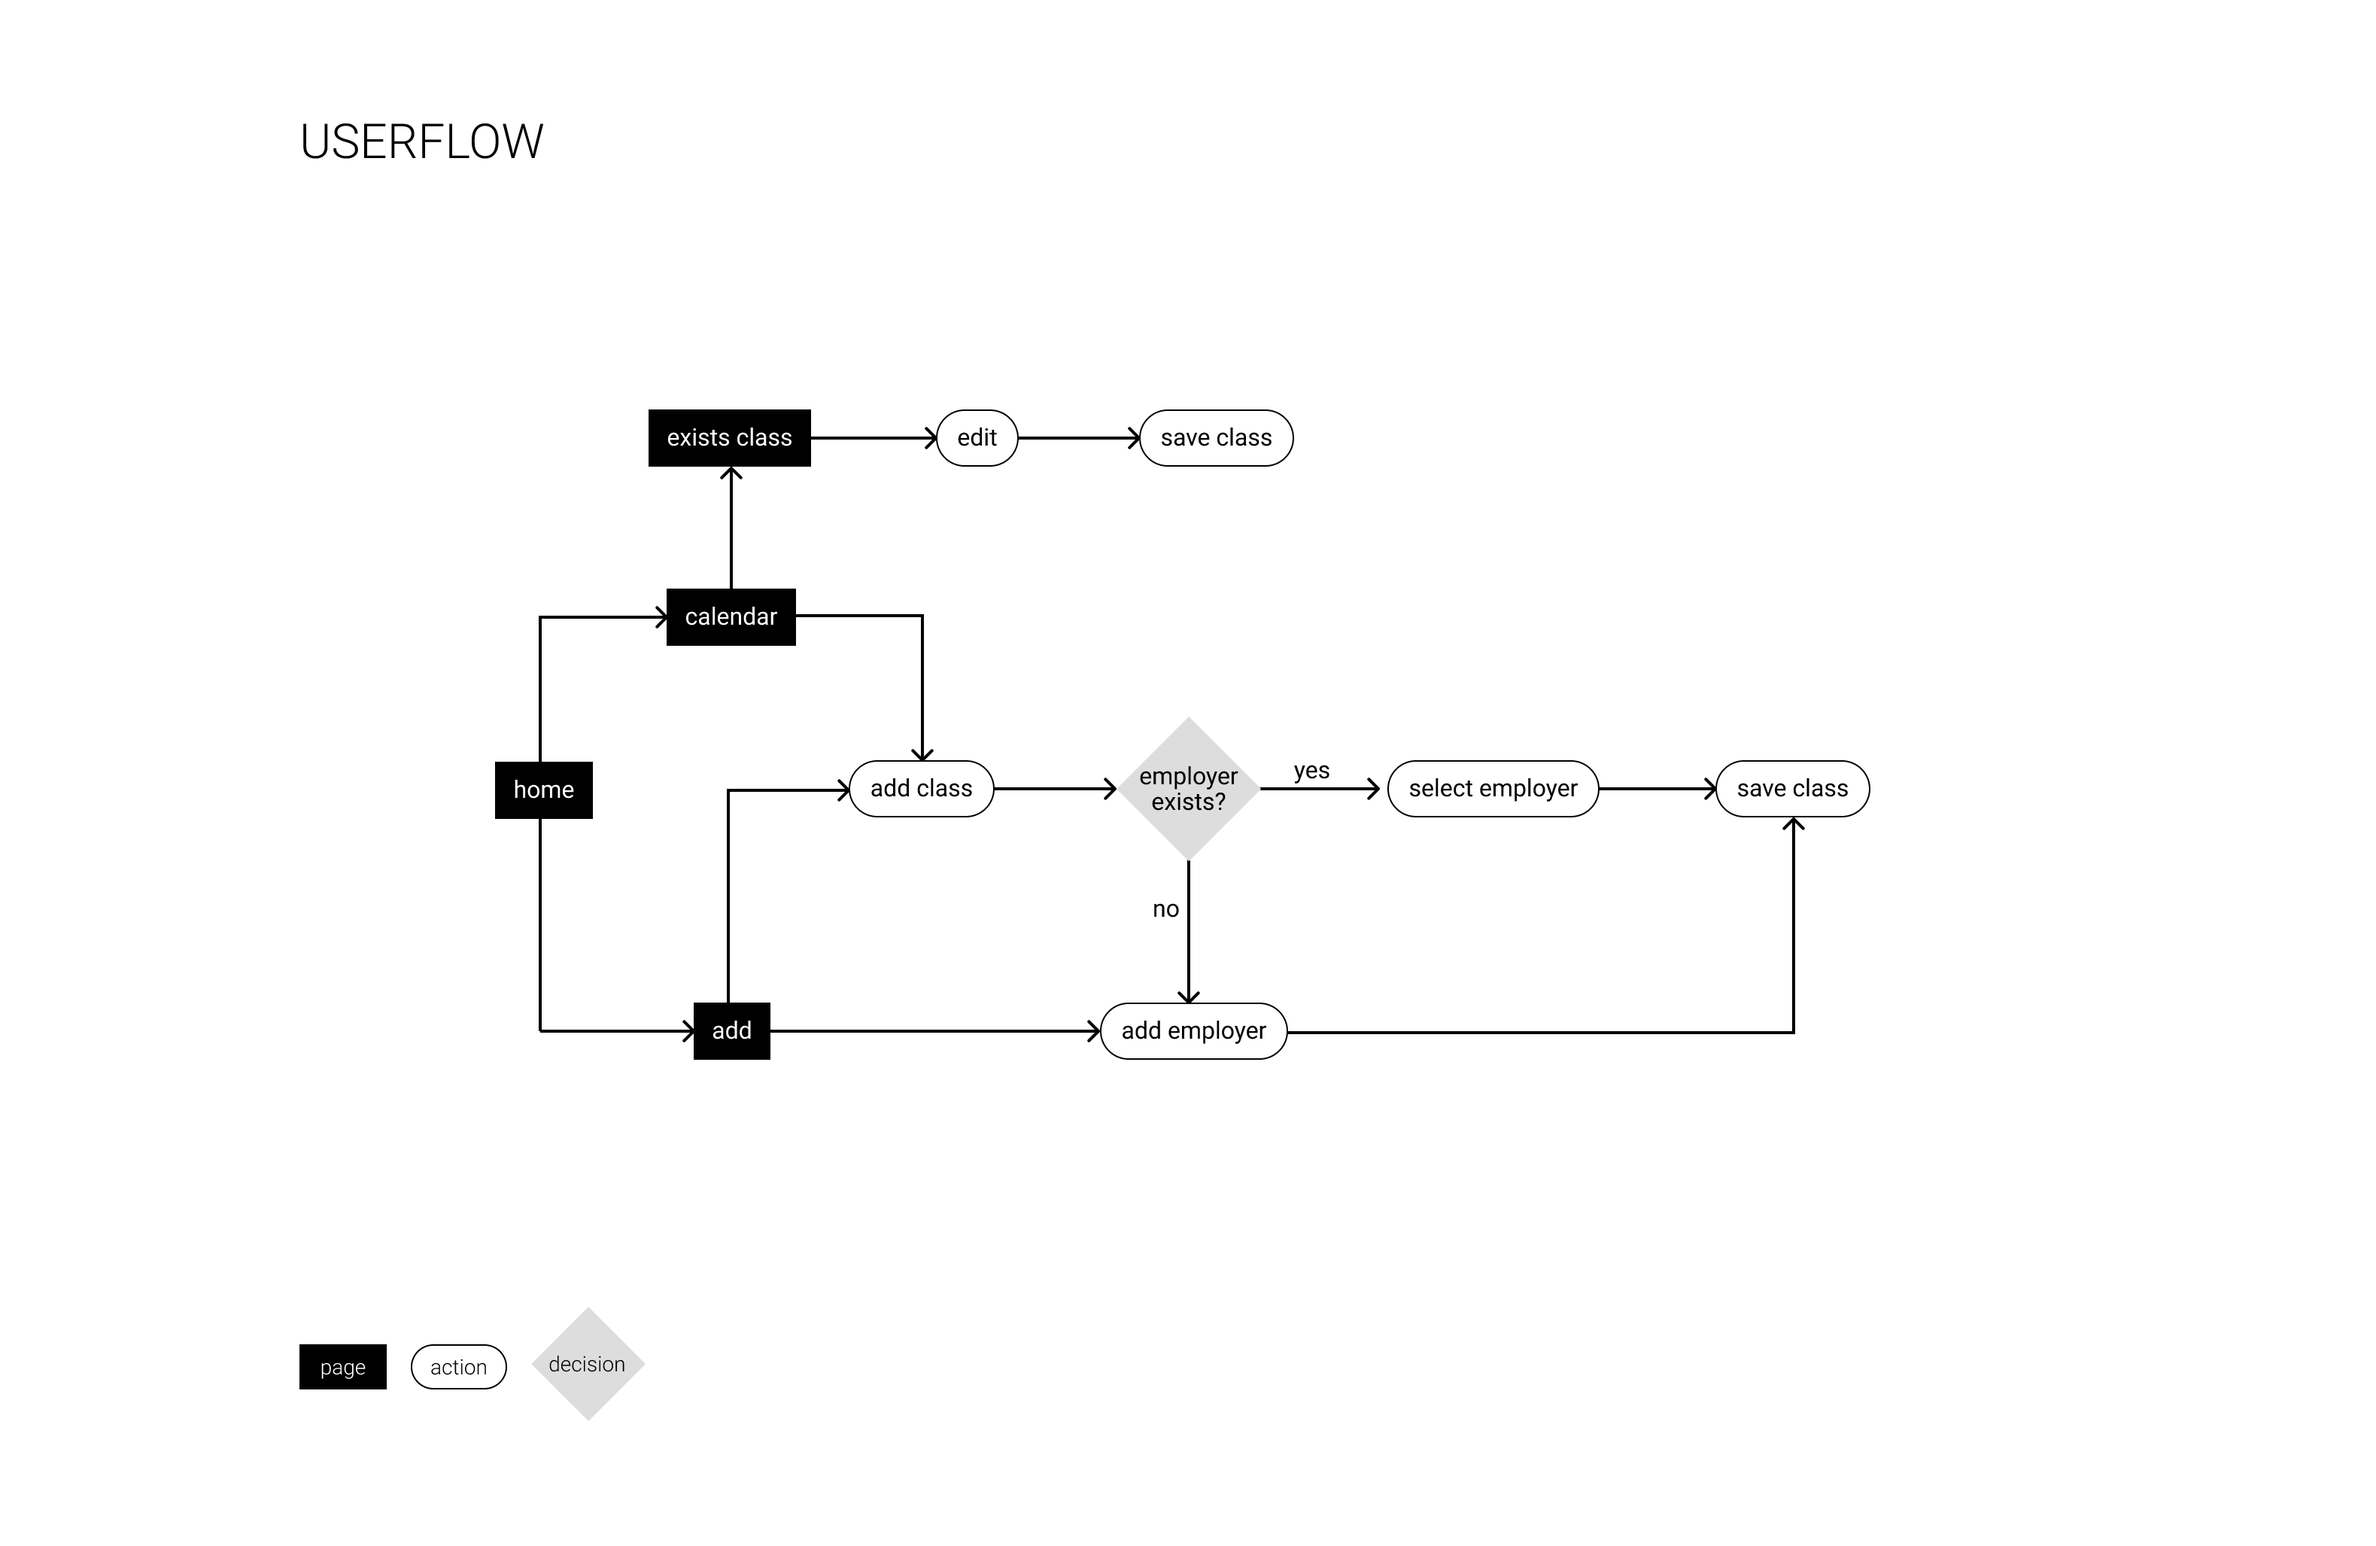
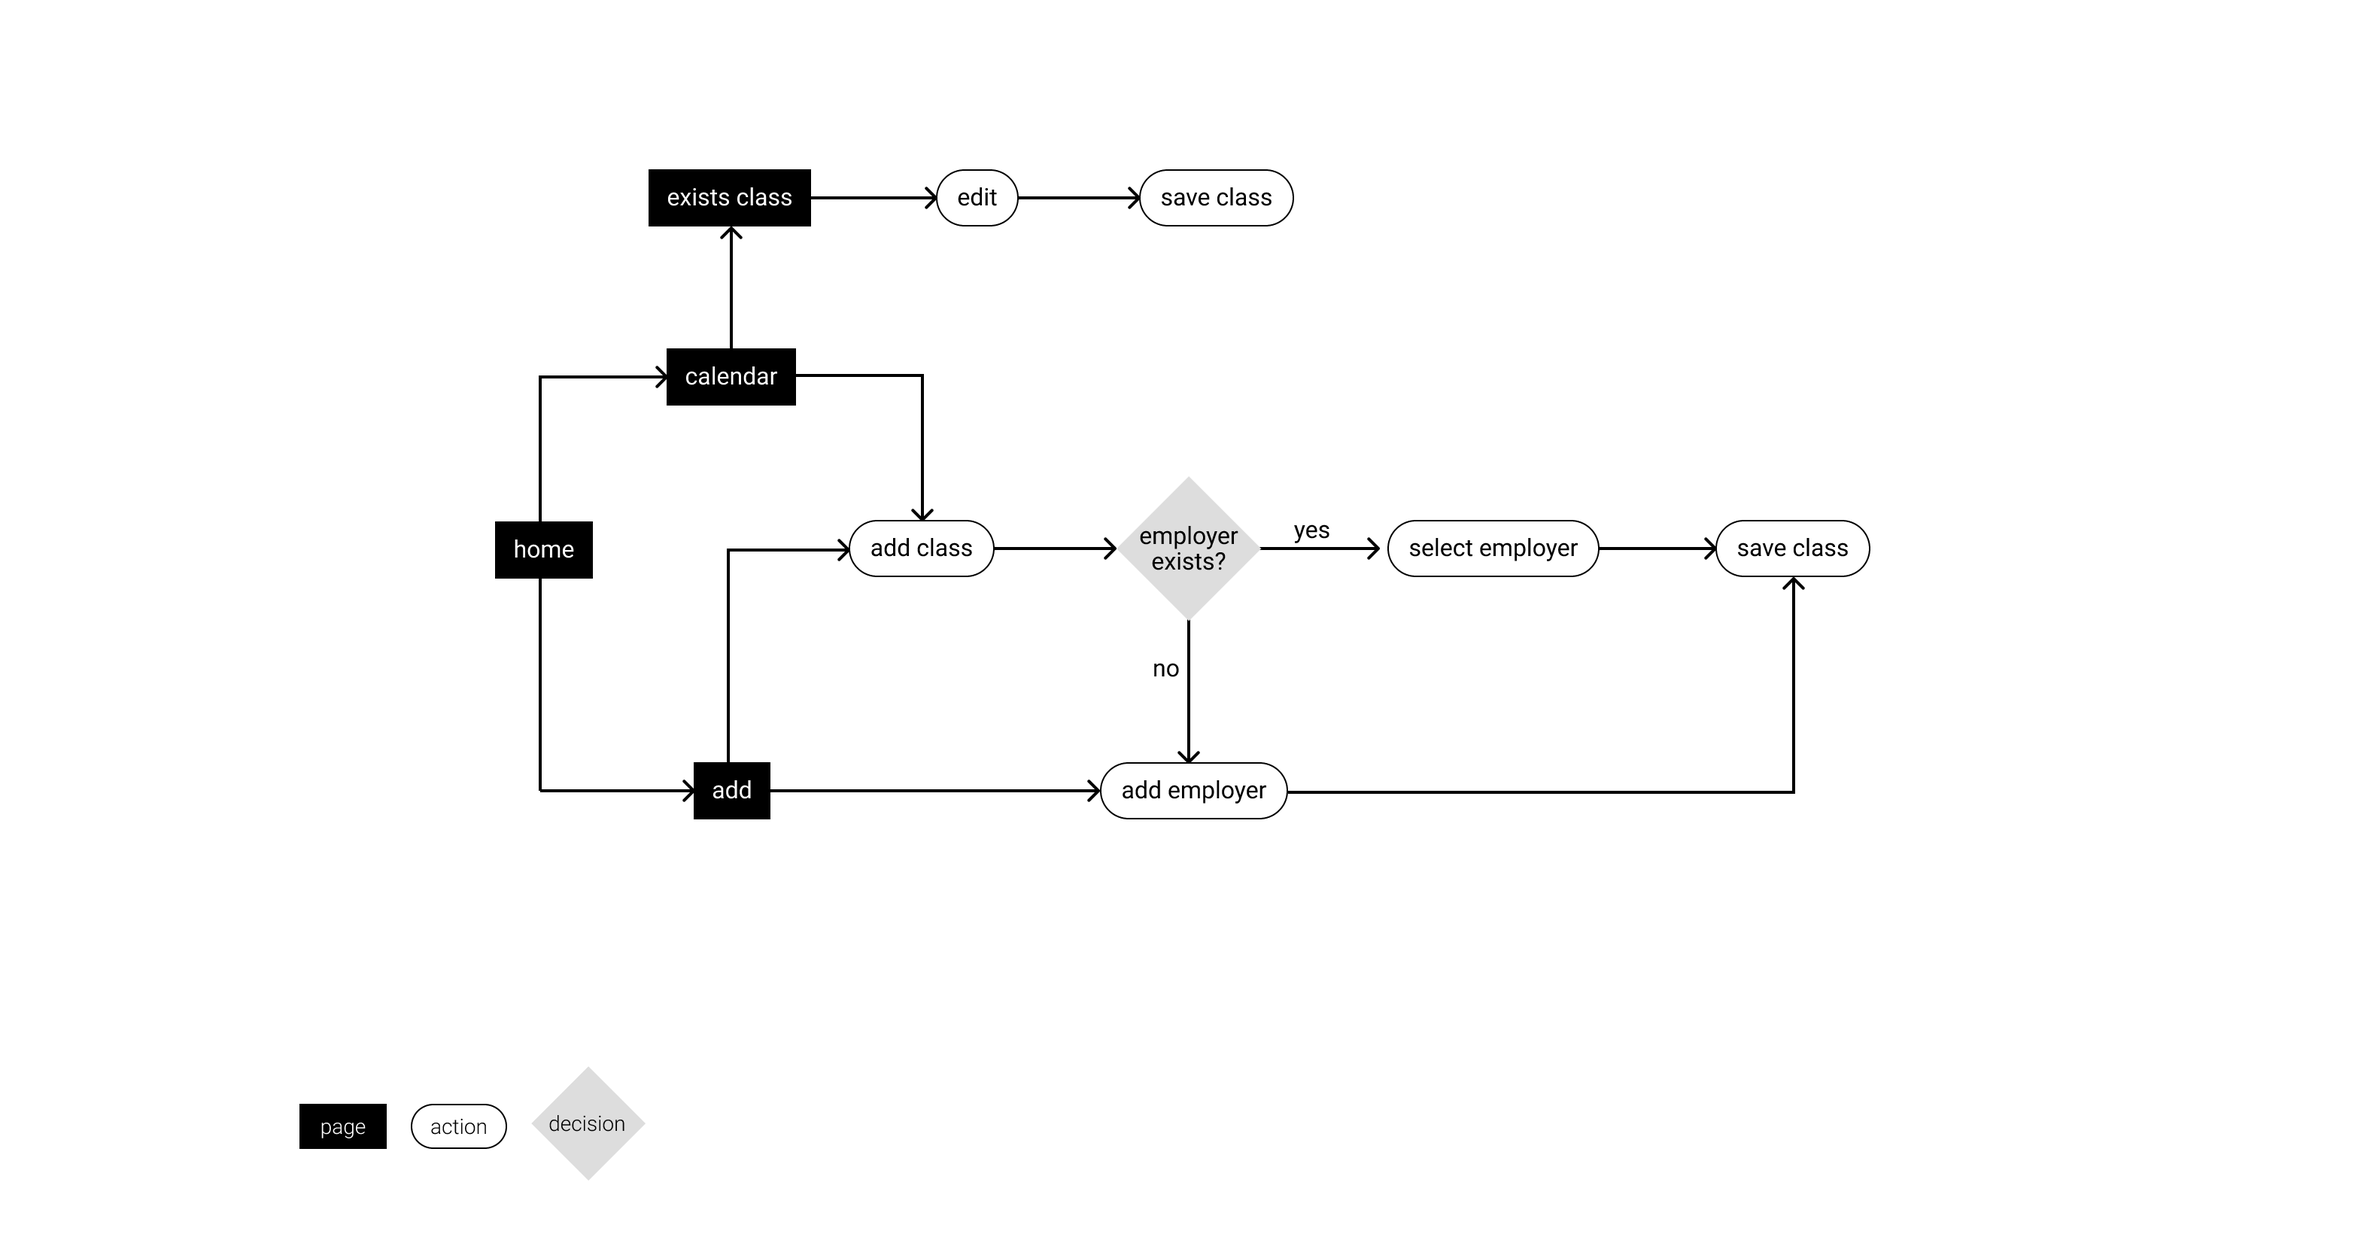
update balanced page layout and images

diff --git a/balanced.html b/balanced.html
@@ -256,20 +256,29 @@
     }
 
     /*
-      Problem & Solution: symmetric 1fr | arrow | 1fr — arrow at horizontal midpoint,
-      equal column widths; arrow column stretches and centers vertically.
+      Problem & Solution: 12-col row — col 1 empty | problem (4) | arrow (2) | solution (4) | col 12 empty.
+      Tighter text bands; group stays centered in the grid.
     */
     .balanced-ps-grid {
       display: grid;
-      grid-template-columns: 1fr auto 1fr;
+      grid-template-columns: repeat(12, 1fr);
       column-gap: 24px;
       width: 100%;
       box-sizing: border-box;
       align-items: stretch;
     }
 
-    .balanced-ps-problem,
+    .balanced-ps-problem {
+      grid-column: 2 / 6;
+      min-width: 0;
+      display: flex;
+      flex-direction: column;
+      align-items: center;
+      text-align: center;
+    }
+
     .balanced-ps-solution {
+      grid-column: 8 / 12;
       min-width: 0;
       display: flex;
       flex-direction: column;
@@ -316,6 +325,7 @@
     }
 
     .balanced-ps-connector {
+      grid-column: 6 / 8;
       display: flex;
       align-items: center;
       justify-content: center;
@@ -330,11 +340,19 @@
       user-select: none;
     }
 
+    /* L2 — USERFLOW, between Problem/Solution row and diagram */
+    .balanced-ps-block > .balanced-userflow-heading {
+      grid-column: 1 / -1;
+      margin-top: 80px;
+      margin-bottom: 24px;
+      text-align: center;
+    }
+
     /* userflow.png: full 12-col track inside container (24px gutters via .container) */
     .balanced-ps-block > .balanced-ps-userflow {
       grid-column: 1 / -1;
       min-width: 0;
-      margin: 120px 0 0;
+      margin: 0;
       padding: 0;
       border: none;
       line-height: 0;
@@ -417,6 +435,12 @@
 
       .balanced-page .balanced-ps-grid {
         grid-template-columns: 1fr;
+      }
+
+      .balanced-page .balanced-ps-problem,
+      .balanced-page .balanced-ps-solution,
+      .balanced-page .balanced-ps-connector {
+        grid-column: 1 / -1;
       }
 
       .balanced-page .balanced-ps-connector {
@@ -561,6 +585,7 @@
             </p>
           </div>
         </div>
+        <h2 class="case-subhead balanced-userflow-heading">userflow</h2>
         <figure class="balanced-ps-userflow" aria-label="User flow">
           <img
             src="balancedproject/userflow.png"
